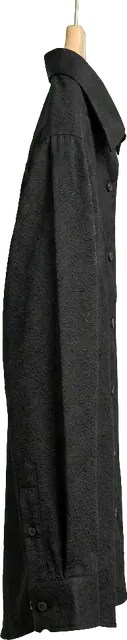
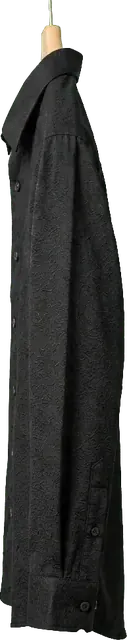
Home rails: no flicker at rest, even sizes, 2 shirts turned back, quilted jacket side
- At rest the pictures use plain 2D transforms (no 3D layer, no backface-visibility): stops the shimmer
- Wide side photos hang up to 18% shorter so they do not look bigger than the shirts
- Maroon and black shirt side photos mirrored back (buttons to the right)
- New side photo for the quilted padding jacket

diff --git a/src/components/HangerRail.jsx b/src/components/HangerRail.jsx
@@ -77,6 +77,14 @@ function Rod({ variant }) {
   );
 }
 
+// a side photo wider than a shirt's (width / height above 0.3) hangs a little shorter: at most 18 % shorter
+const sideFit = (e) => {
+  const im = e.currentTarget;
+  const r = im.naturalWidth / Math.max(1, im.naturalHeight);
+  const f = Math.max(0.82, Math.min(1, (0.3 / Math.max(r, 0.01)) ** 0.3));
+  im.style.height = `${(f * 100).toFixed(1)}%`;
+};
+
 export default function HangerRail({
   label = 'NEW COLLECTION', title, products, formatPrice, onOpen, onShopAll,
   tagline = [], variant = 'curve', tone = 'grey', card = 'portrait',
@@ -221,19 +229,21 @@ export default function HangerRail({
                             <Hanger className={`relative z-[2] -mt-[2px] mx-auto block transition-all duration-300 ${front ? 'w-[62%]' : 'w-[22%]'}`} />
                           )}
                           {/* the turn is a 3D spin: the side view swings away to the left while the front swings in from the
-                              right (every side photo shows the front of the piece pointing right), one after the other */}
+                              right (every side photo shows the front of the piece pointing right), one after the other.
+                              At rest both pictures have a plain 2D transform, so the browser keeps no 3D layer (that flickered). */}
                           <div className={`relative h-[185px] sm:h-[235px] lg:h-[270px] w-full ${p.cutoutHanger ? '-mt-[3px]' : '-mt-[12px]'}`}
                             style={p.cutoutSide ? { perspective: '900px' } : undefined}>
                             {p.cutoutSide && (
-                              // sized by height (not width), so a wide side photo (a puffer jacket) hangs as tall as the shirts
-                              <img src={p.cutoutSide} alt="" aria-hidden="true" loading="lazy" draggable={false}
+                              // sized by height, so every piece hangs about as tall as the shirts; a wide side photo
+                              // (a puffer jacket with its hood) is made a little shorter so it does not look bigger (sideFit)
+                              <img src={p.cutoutSide} alt="" aria-hidden="true" loading="lazy" draggable={false} onLoad={sideFit}
                                 className={`absolute left-1/2 top-0 h-full w-auto max-w-none transition-transform duration-[260ms] ${shadow}`}
-                                style={{ transform: `translateX(-50%) rotateY(${front ? -90 : 0}deg)`, backfaceVisibility: 'hidden',
+                                style={{ transform: front ? 'translateX(-50%) rotateY(-90deg)' : 'translateX(-50%)',
                                   transitionTimingFunction: front ? 'cubic-bezier(.5,0,.9,.5)' : 'cubic-bezier(.1,.5,.5,1)', transitionDelay: front ? '0ms' : '260ms' }} />
                             )}
                             <img src={p.cutout} alt={p.name} loading="lazy" draggable={false}
                               className={`absolute inset-0 h-full w-full object-contain object-top transition-transform duration-[260ms] ${shadow}`}
-                              style={p.cutoutSide ? { transform: `rotateY(${front ? 0 : 90}deg)`, backfaceVisibility: 'hidden',
+                              style={p.cutoutSide ? { transform: front ? 'none' : 'rotateY(90deg)',
                                 transitionTimingFunction: front ? 'cubic-bezier(.1,.5,.5,1)' : 'cubic-bezier(.5,0,.9,.5)', transitionDelay: front ? '260ms' : '0ms' } : undefined} />
                           </div>
                         </>

diff --git a/src/data/cutouts.js b/src/data/cutouts.js
@@ -3,7 +3,7 @@
 // hanger: the photo already shows its own hanger (only a wire is drawn); color: the colour in the photo.
 // A product that is gone or sold out is skipped; a rail with fewer than 4 falls back to photo cards.
 // Photos uploaded in the Admin product form (Firestore "showcase") replace these or add more (HomeShowcase.jsx).
-export const CUTOUT_VERSION = 8; // bump when the pictures change (browser cache)
+export const CUTOUT_VERSION = 9; // bump when the pictures change (browser cache)
 export const cutoutSrc = (id) => `/cutouts/${id}.webp?v=${CUTOUT_VERSION}`;
 // side: true = there is also a side-on picture (public/cutouts/<id>-side.webp); the piece hangs side-on and turns to the front on hover / tap
 export const cutoutSideSrc = (id) => `/cutouts/${id}-side.webp?v=${CUTOUT_VERSION}`;
@@ -20,7 +20,7 @@ export const CUTOUTS = {
     { id: '1794400072000', hanger: true, side: true, color: "Design 5" },
     { id: '1794100041000', side: true, color: "Maroon" },
     { id: '1794600025000', hanger: true, side: true, color: "Navy" },
-    { id: '1794400044000', hanger: true, color: "Design 2" },
+    { id: '1794400044000', hanger: true, side: true, color: "Design 2" },
     { id: '1794600005000', hanger: true, side: true, color: "Black" },
     { id: '1794400043000', hanger: true, side: true, color: "Design 2" },
     { id: '1794400071000', hanger: true, side: true, color: "Design 2" },
